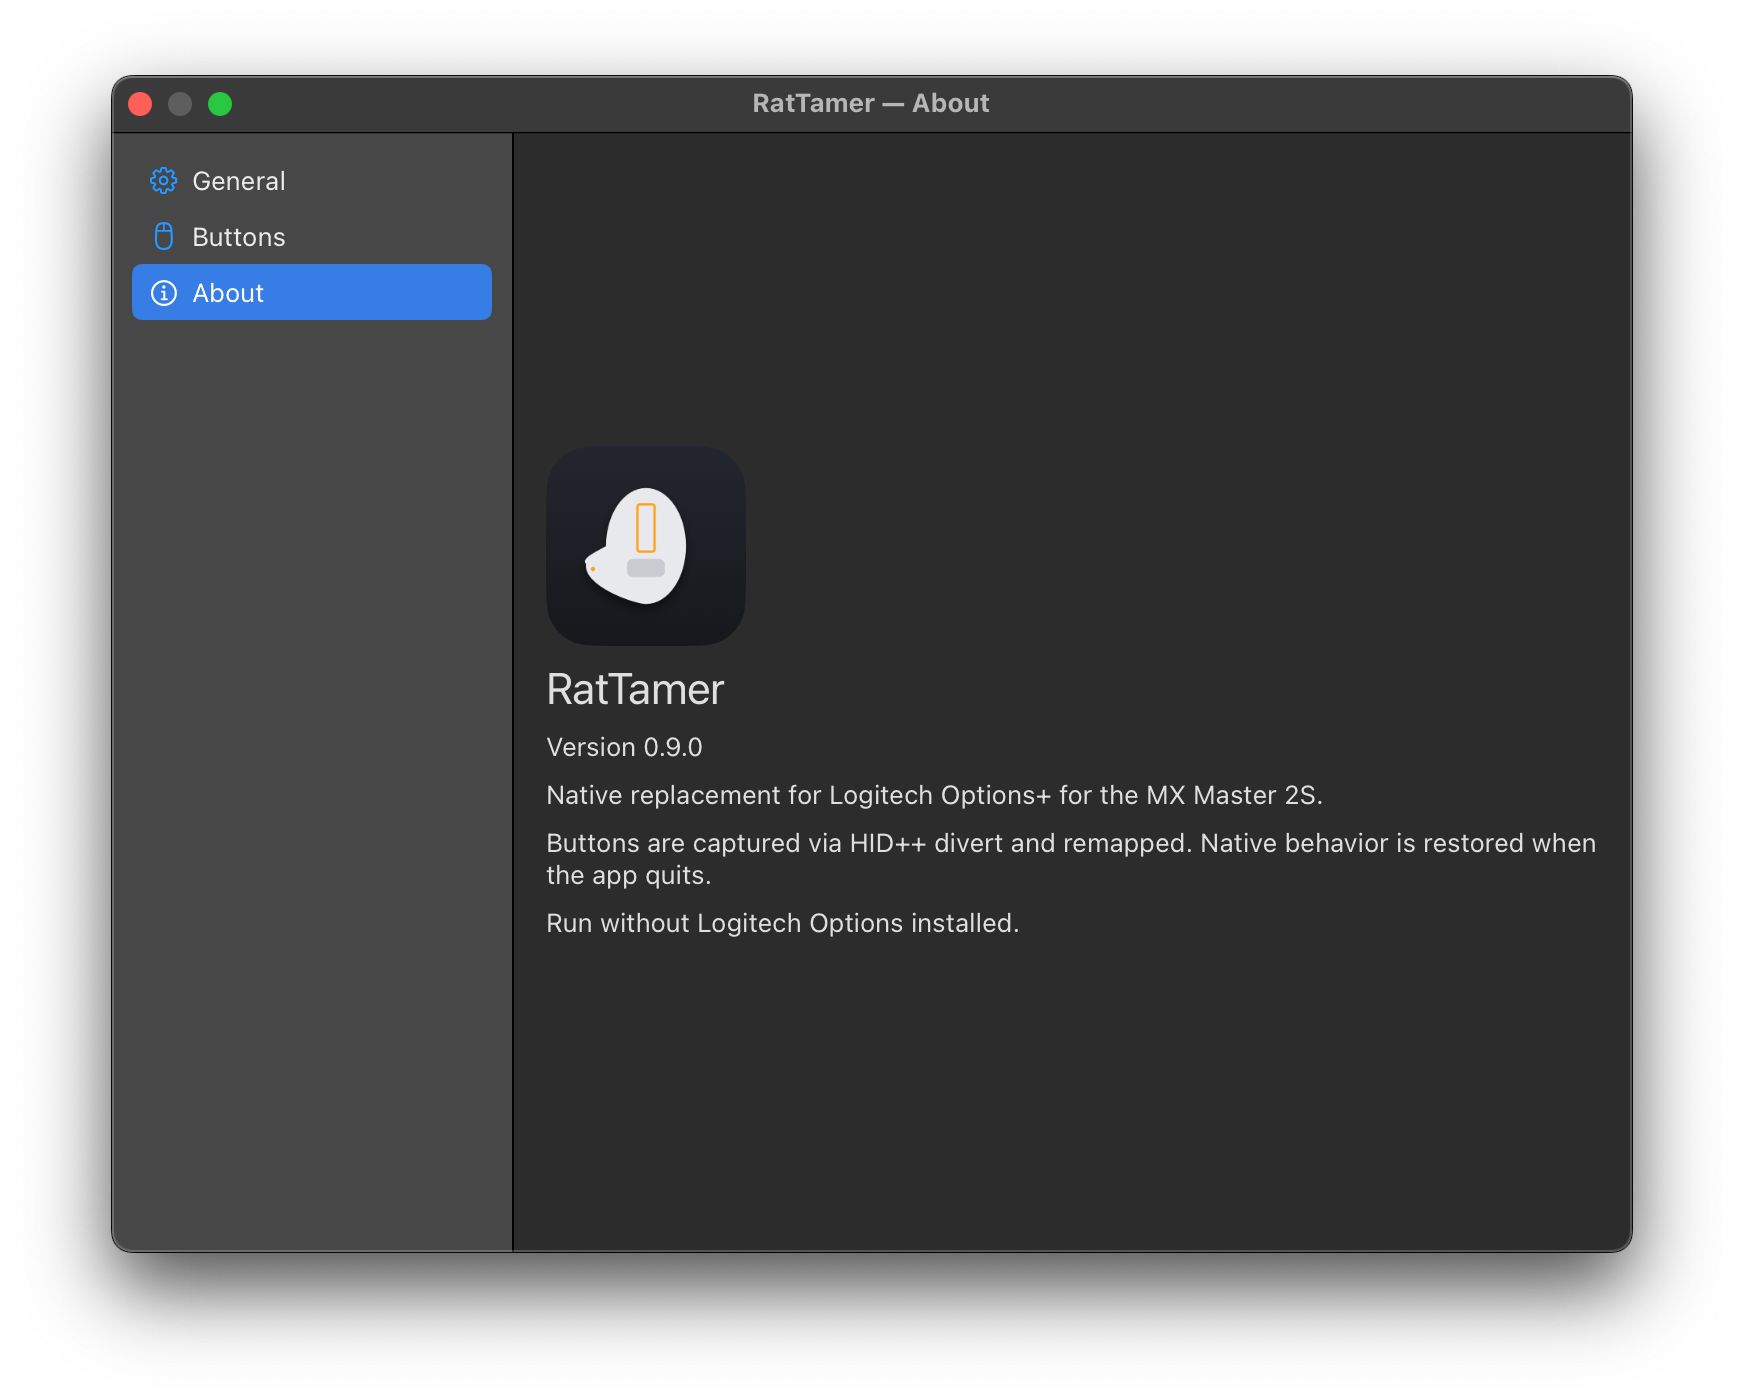
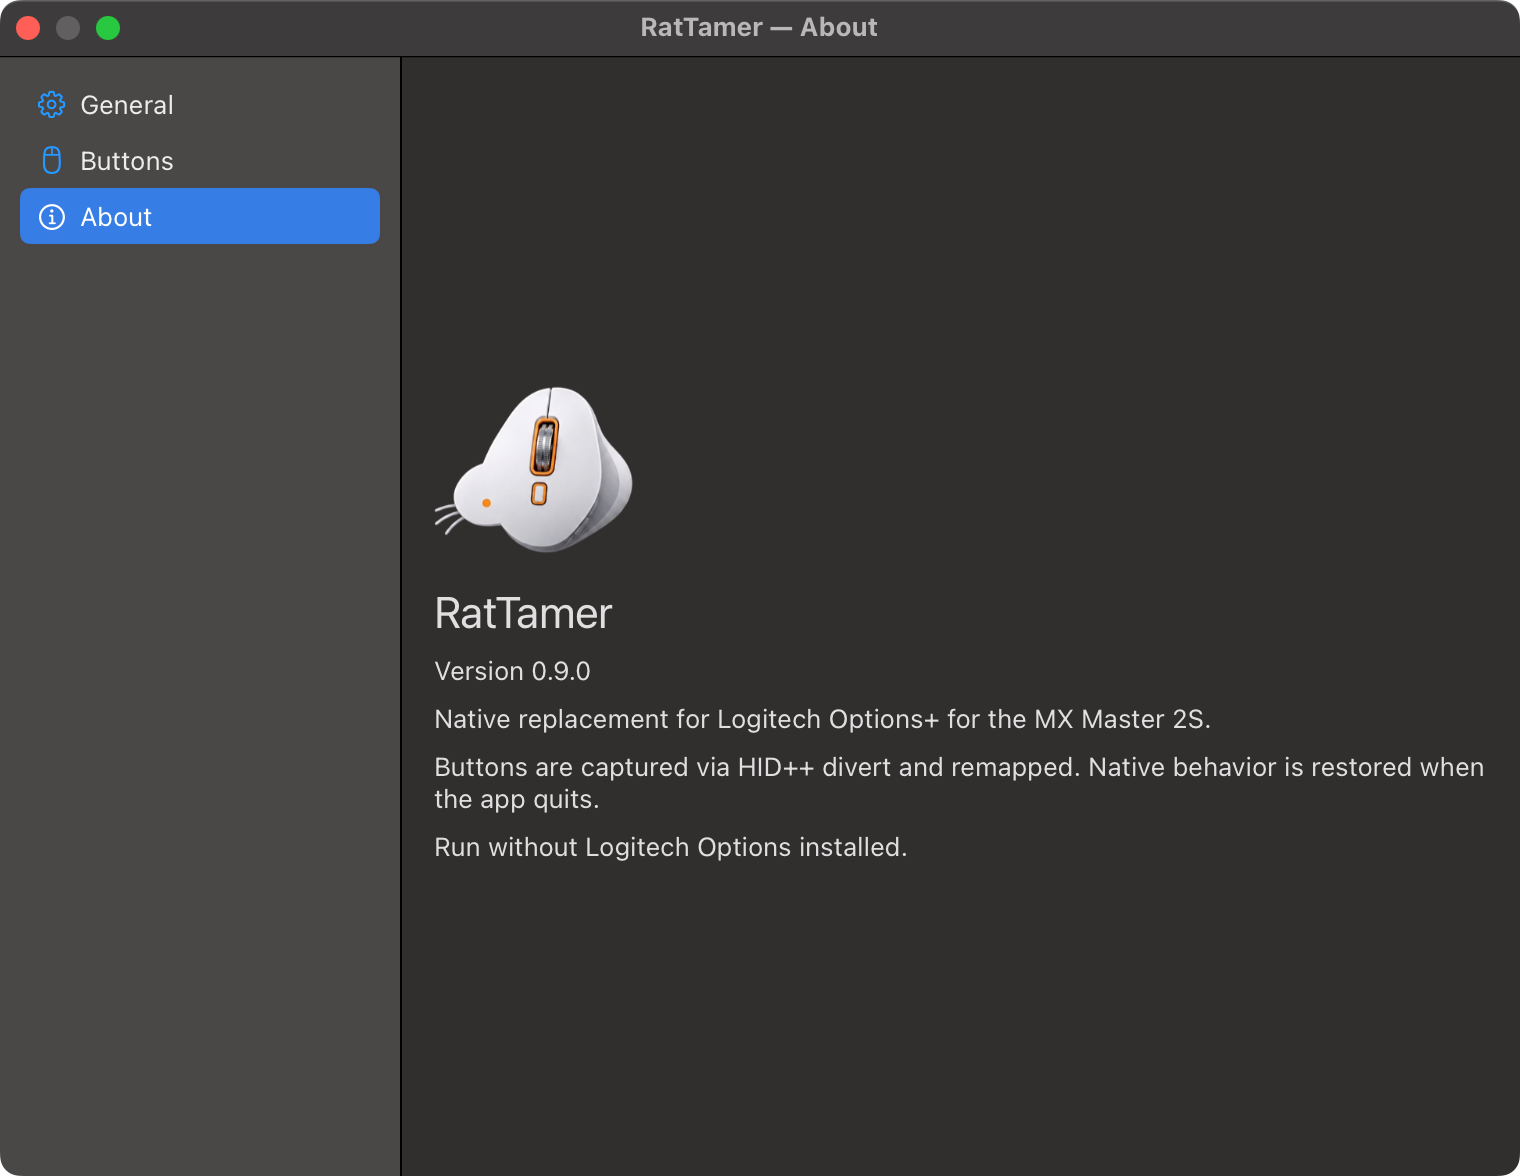
Rewrite README, add technical docs and screenshots

diff --git a/README.md b/README.md
@@ -1,88 +1,72 @@
-# RatTamer
-
-A native macOS menu bar app that replaces Logitech Options+ for the MX Master 2S. It talks to the mouse over HID++ 2.0, captures its buttons, and runs the configured shortcut, system action or click for each one — no Logitech software required, native behavior restored on quit.
-
 ![App icon](screenshots/icone.png)
 
-![Settings — About tab](screenshots/settings-about.png)
+# RatTamer
+
+A native macOS menu bar app that replaces Logitech Options+ for the MX Master 2S. It captures the mouse buttons over HID++ 2.0 and runs your own shortcut, system action or click for each one — no Logitech software required, native behavior restored on quit.
 
 ![Swift](https://img.shields.io/badge/Swift-5.9-FA7343?logo=swift&logoColor=white&style=flat)
 ![macOS](https://img.shields.io/badge/macOS-14%2B-000000?logo=apple&logoColor=white&style=flat)
+![Version](https://img.shields.io/badge/version-0.9.0-FF9F1C?style=flat)
 
-## Features
+[![Settings — About tab](screenshots/settings-about.png)](screenshots/settings-about.png)
 
-| Feature | What it does |
-|---|---|
-| Menu bar | popover with connection status, battery level and a remapping toggle |
-| DPI cycling | assign "Cycle DPI" to a button; steps through 1000 / 1600 / 2000 / 4000 |
-| Button remapping | per-button actions: shortcuts, system actions, clicks, gestures |
-| Left/right swap | remaps the physical buttons; native mapping restored on quit |
-| Thumb wheel | left/right horizontal scroll, each side with its own action |
-| SmartShift | ratchet / free-spin / auto wheel mode plus sensitivity |
-| Gestures | raw XY movement classified into directions by the gesture detector |
+## Download
 
-## Screenshots
-
-![Settings — Buttons tab](screenshots/settings-buttons.png)
-
-![Menu bar popover](screenshots/menu-bar.png)
-
-## Requirements
-
-- macOS 14+ (tested on macOS 15.7.8, Apple Silicon)
-- Xcode Command Line Tools (`xcode-select --install`)
-- MX Master 2S paired via a Unifying receiver (or direct USB)
-- Logitech Options/Options+ uninstalled or stopped (it monopolizes the receiver and blocks notification reads)
-
-## Permissions
-
-The first run only asks for one thing, in System Settings → Privacy & Security:
-
-- **Accessibility** — to post synthetic events (shortcuts and clicks) via `CGEvent`
-
-Input Monitoring is **not** required: reading the Unifying receiver via `IOHIDDevice` works without it, even as a regular user.
-
-## Quick start
+There is no pre-built release yet — build the app locally in one step:
 
 ```bash
-swift run RatTamer        # development mode (no app bundle)
-./scripts/build-app.sh    # app bundle at build/RatTamer.app
+./scripts/build-app.sh    # produces build/RatTamer.app (ad-hoc signed)
 ```
 
-The bundle is only needed for "Start at login" (via `SMAppService`).
+or run straight from the source tree:
 
-## How it works
+```bash
+swift run RatTamer        # development mode, no app bundle
+```
 
-- **Connection**: walks the kernel registry with `IOServiceGetMatchingServices` + `IOHIDDeviceCreate` (`IOHIDManager` never enumerates this receiver on macOS 15/arm64).
-- **Discovery**: resolves the `0x1B04` (`ReprogrammableControls`) feature index at runtime — it varies between sessions.
-- **Divert**: the divertable controls (Back, Forward, Thumb/Gesture, SmartShift, VirtualGesture) stop running their native action and emit PRESS/RELEASE events to the app.
-- **Action**: on press, the app runs the configured action for that control (keyboard shortcut, system action, click, gesture, DPI cycle). Left, Right and Middle are not divertable and stay native.
-- **Restoration**: on quit, all diverts are reverted and every button returns to native behavior.
+The bundle is only needed for "Start at login" (via `SMAppService`). See [Distribution](#distribution) for why there is no signed/notarized download.
 
-The codebase is split into three layers — **HIDPP** (talks to the receiver), **Core** (remapping logic + persistence) and **App** (SwiftUI shell). The byte-level protocol details live in [docs/HIDPP.md](docs/HIDPP.md).
+## Major features
+
+- **Menu bar popover** with connection status, battery level, pointer resolution and a remapping toggle.
+- **Button remapping** — per-button actions: keyboard shortcuts, system actions, clicks, gestures.
+- **DPI cycling** — assign "Cycle DPI" to a button; steps through 1000 / 1600 / 2000 / 4000.
+- **Left/right swap** — remaps the physical buttons; native mapping restored on quit.
+- **Thumb wheel** — left/right horizontal scroll, each side with its own action.
+- **SmartShift** — ratchet / free-spin / auto wheel mode plus sensitivity.
+- **Gestures** — raw XY movement classified into directions by the gesture detector.
+- **Dock icon** — show in the Dock or run menu bar only (Settings → General).
+- **About** — app icon and version in the Settings About tab.
+- **Completely free**, native SwiftUI, no daemons, no telemetry.
+
+### Screenshots
+
+[![Settings — Buttons tab](screenshots/settings-buttons.png)](screenshots/settings-buttons.png)
+
+[![Menu bar popover](screenshots/menu-bar.png)](screenshots/menu-bar.png)
+
+## How to install and use the app
+
+1. Build the app: `./scripts/build-app.sh` (or `swift run RatTamer` for development).
+2. Copy `build/RatTamer.app` to your Applications folder.
+3. Open RatTamer — the first run shows a short onboarding.
+4. Grant **Accessibility** in System Settings → Privacy & Security as prompted (required to post shortcuts and clicks).
+5. Click the mouse icon in the menu bar to open the popover: connection status, battery, pointer resolution and a remapping toggle.
+6. Open **Settings…** to configure buttons, thumb wheel, SmartShift, DPI presets, login item and the Dock icon option.
+7. To start at login, toggle "Start at login" in Settings → General or in the popover.
+
+### macOS compatibility
+
+| Version | Notes |
+|---|---|
+| macOS 14+ (Sonoma) | supported |
+| macOS 15 (Sequoia) | tested on 15.7.8, Apple Silicon |
 
 ## Configuration
 
 In the **Buttons** tab every divertable button gets an action: Disabled (native), shortcuts (e.g. Cmd+W), system actions (Volume, Mission Control, Show Desktop, Spaces), clicks (Forward/Back), gestures or DPI cycling. The thumb wheel has separate left/right actions, and the SmartShift wheel mode (ratchet, free-spin, auto + sensitivity) is set in the same tab.
 
-The configuration is stored in `~/Library/Application Support/RatTamer/config.json` (schema v2) and applied on connect.
-
-## Developer tools
-
-**RatTest** — identifies buttons. It diverts all controls and shows, in real time, which row corresponds to each physical button as you press it. You can also change a button's action and run it ("Run") without leaving the window.
-
-```bash
-swift run RatTest
-```
-
-Close `RatTamer` first — only one process can receive the divert events.
-
-**RatDiagnose** — inspects the protocol:
-
-```bash
-swift run RatDiagnose                 # lists features and the controls (cid/tid/divertable table)
-swift run RatDiagnose --divert 10     # diverts everything for 10s and prints PRESS/RELEASE per button
-```
+The configuration is stored in `~/Library/Application Support/RatTamer/config.json` and applied on connect.
 
 ## Distribution
 
@@ -97,6 +81,15 @@ The app is **not notarized** — notarization requires a paid Apple Developer ac
 
    or right-click → Open → Open Anyway in Gatekeeper.
 
+## Documentation
+
+- **How the app works, the config schema, developer tools and build details** — [docs/TECHNICAL.md](docs/TECHNICAL.md)
+- **The HID++ protocol, byte by byte** — [docs/HIDPP.md](docs/HIDPP.md)
+
 ## History
 
-**0.9.0** — About tab with app icon and version; menu bar popover with status and battery; DPI cycling (1000/1600/2000/4000); button remapping with left/right swap; thumb wheel actions; SmartShift wheel mode control; gestures; HID++ protocol documentation and distribution notes; screenshots.
+**0.9.0** — About tab with app icon (160pt) and version; menu bar popover with status, battery, pointer resolution and a remapping toggle; option to hide the Dock icon (menu bar only); DPI cycling (1000/1600/2000/4000); button remapping with left/right swap; thumb wheel actions; SmartShift wheel mode control; gestures; screenshots.
+
+---
+
+Built with [opencode](https://opencode.ai) — the open-source AI coding agent.

diff --git a/docs/TECHNICAL.md b/docs/TECHNICAL.md
@@ -1,0 +1,123 @@
+# RatTamer — Technical details
+
+Developer-oriented notes: how the app works internally, the configuration schema, the developer tools and the build/distribution specifics. The byte-level HID++ protocol lives in [docs/HIDPP.md](docs/HIDPP.md).
+
+## Architecture
+
+Three layers, in `Sources/`:
+
+| Layer | Path | Responsibility |
+|---|---|---|
+| **HIDPP** | `RatTamerCore/HIDPP/` | talks to the Unifying receiver: framing, feature discovery, `ReprogrammableControls`, DPI, battery, HiRes wheel, SmartShift |
+| **Core** | `RatTamerCore/Core/` | remapping logic, gesture classification, throttling, watchdog, config persistence |
+| **App** | `RatTamerApp/` | SwiftUI shell: menu bar popover, settings window, onboarding, engine controller |
+
+The data flow is `HIDPP → Core → App` — see the diagram at the end of [docs/HIDPP.md](docs/HIDPP.md).
+
+## Runtime behavior
+
+- **Connection** — `HIDLocator` walks the kernel registry with `IOServiceGetMatchingServices` + `IOHIDDeviceCreate`; `IOHIDManager` never enumerates this receiver on macOS 15/arm64. No TCC permission needed.
+- **Discovery** — the `0x1B04` (`ReprogrammableControls`) feature index is resolved at runtime; it varies between sessions.
+- **Divert** — divertable controls (Back, Forward, Thumb/Gesture, SmartShift, VirtualGesture) stop running their native action and emit PRESS/RELEASE events to the app. Left, Right and Middle are not divertable and stay native.
+- **Action** — on press, `EngineController.handlePress` → `ActionEngine.execute(ButtonAction)` performs the configured action.
+- **Restoration** — on quit, all diverts are reverted and every button returns to native behavior.
+
+## Configuration
+
+Stored in `~/Library/Application Support/RatTamer/config.json` (schema v2), applied on connect.
+
+| Key | Type | Meaning |
+|---|---|---|
+| `version` | Int | schema version (2) |
+| `deviceIndex` | UInt8? | receiver slot of the mouse |
+| `buttons` | `[String: ButtonAction]` | action per control, keyed `"0x00C4"` style |
+| `swapLeftRight` | Bool | physical left/right swap |
+| `smartShiftMode` | String? | `freespin` / `ratcheted` / `smartshift` |
+| `smartShiftSensitivity` | Int? | wheel sensitivity |
+| `dpiValue` | UInt16? | current pointer resolution |
+| `dpiCycleValues` | [UInt16]? | cycle presets |
+| `invertScrollDirection` | Bool? | HiRes wheel direction |
+| `thumbWheelLeft` / `thumbWheelRight` | ButtonAction? | thumb wheel actions |
+| `menuBarOnly` | Bool? | hide the Dock icon (Settings → General) |
+
+`ButtonAction` is an enum with the JSON shapes:
+
+| Kind | JSON |
+|---|---|
+| shortcut | `{"action":"shortcut","key":"w","modifiers":["command"]}` |
+| system | `{"action":"system","system":"missionControl"}` |
+| runShortcut | `{"action":"runShortcut","shortcut":"SS Volume Up"}` |
+| click | `{"action":"click","button":4}` |
+| gesture | `{"action":"gesture","gesture":{…}}` |
+| cycleDPI | `{"action":"cycleDPI"}` |
+| disabled | `{"action":"disabled"}` |
+
+## Developer tools
+
+**RatTest** — identifies buttons. It diverts all controls and shows, in real time, which row corresponds to each physical button as you press it. You can also change a button's action and run it ("Run") without leaving the window.
+
+```bash
+swift run RatTest
+```
+
+Close `RatTamer` first — only one process can receive the divert events.
+
+**RatDiagnose** — inspects the protocol:
+
+```bash
+swift run RatDiagnose                 # lists features and the controls (cid/tid/divertable table)
+swift run RatDiagnose --divert 10     # diverts everything for 10s and prints PRESS/RELEASE per button
+```
+
+## How to build
+
+### Required
+
+- macOS 14+
+- Xcode Command Line Tools (`xcode-select --install`)
+
+### Steps
+
+```bash
+swift build            # compile
+swift test             # test suite (194 tests)
+./scripts/build-app.sh # app bundle at build/RatTamer.app
+swift run IconGen      # regenerate the app icon (build/icon/RatTamer.icns)
+```
+
+### Dependencies
+
+None — SwiftPM-only. The app links only Apple system frameworks (IOKit, CoreGraphics, Carbon, ApplicationServices).
+
+## Distribution deep-dive
+
+The app is **not notarized** — notarization requires a paid Apple Developer account — so macOS may block a downloaded copy.
+
+1. **Local build (recommended).** `./scripts/build-app.sh` produces `build/RatTamer.app`, ad-hoc signed (`codesign -s -`, no identity). Files built locally never receive `com.apple.quarantine`, so Gatekeeper stays out of the way. "Start at login" works via `SMAppService`.
+2. **GitHub Release (convenience).** The ad-hoc signed app is published as a zip. A browser download sets the quarantine attribute, so remove it once:
+
+   ```bash
+   xattr -dr com.apple.quarantine RatTamer.app
+   ```
+
+   or right-click → Open → Open Anyway in Gatekeeper.
+
+## References
+
+RatTamer was built by studying the projects below — reversing the HID++ wire format, porting system-action triggers, and learning how existing tools work around macOS limitations. The research notes behind each one are in `specs/` (not tracked).
+
+**HID++ protocol**
+- Logitech HID++ 2.0 specification and the community reverse-engineering work (receiver framing, `0x1B04` ReprogrammableControls, `0x1000` Battery, `0x2201` DPI) — see [docs/HIDPP.md](docs/HIDPP.md) for the wire details.
+- The byte-level gotchas were validated on hardware (macOS 15, Apple Silicon): `IOHIDManager` never enumerates the Unifying receiver, writes must use `kIOHIDReportTypeOutput`, cold-start RF can take > 0.5s.
+
+**Mouse remapping / system actions**
+- [mrmouse](https://github.com/zackbart/mrmouse) — same idea as RatTamer (MX Master remapping in Swift); its system-action mapping informed the `ActionEngine`.
+- [Mac Mouse Fix](https://github.com/noah-nuebling/mac-mouse-fix) (MIT) — reference for `TouchSimulator.m` (dock-swipe gestures) and `SymbolicHotKeys.m` (system action hijacking).
+- [input-leap](https://github.com/input-leap/input-leap) (GPL-2.0) — reference only: confirms keycodes 160 (Mission Control) and 131 (Launchpad) via `IOHIDPostEvent`.
+- [dockswipe](https://github.com/oomol-lab/dockswipe) (MIT) — CLI that synthesizes dock-swipe gestures; explored as a trigger for App Exposé / Show Desktop, superseded by the System Events key-code approach used today (`ActionEngine.systemKey`).
+- [Hammerspoon](https://github.com/Hammerspoon/hammerspoon) (MIT) — `hs.spaces` toggles; confirmed `CoreDockSendNotification` is dead on macOS 15.
+- [Karabiner-Elements issue #3310](https://github.com/pqrs-org/Karabiner-Elements/issues/3310) — consumer usages `0x29F` / `0x2A0` for Mission Control / Launchpad.
+- [zenangst/Dock](https://github.com/zenangst/Dock) (MIT) — `CoreDockSendNotification` wrapper; **does not work** on macOS 15 (symbol gone).
+
+**Audio / HDMI volume — researched, not implemented**
+- A SoundSource-style virtual HAL driver (software volume for HDMI outputs that expose no volume control) was researched but **not built**. Volume actions in RatTamer use AppleScript (`set volume output volume`) instead. Candidates studied: [proxy-audio-device](https://github.com/briankendall/proxy-audio-device) (Unlicense, the recommended path), [libASPL](https://github.com/gavv/libASPL) (MIT), [BlackHole](https://github.com/ExistentialAudio/BlackHole) (GPL-3.0, loopback-only — not usable here) and [eqMac](https://github.com/bitgapp/eqMac) (Apache-2.0).
